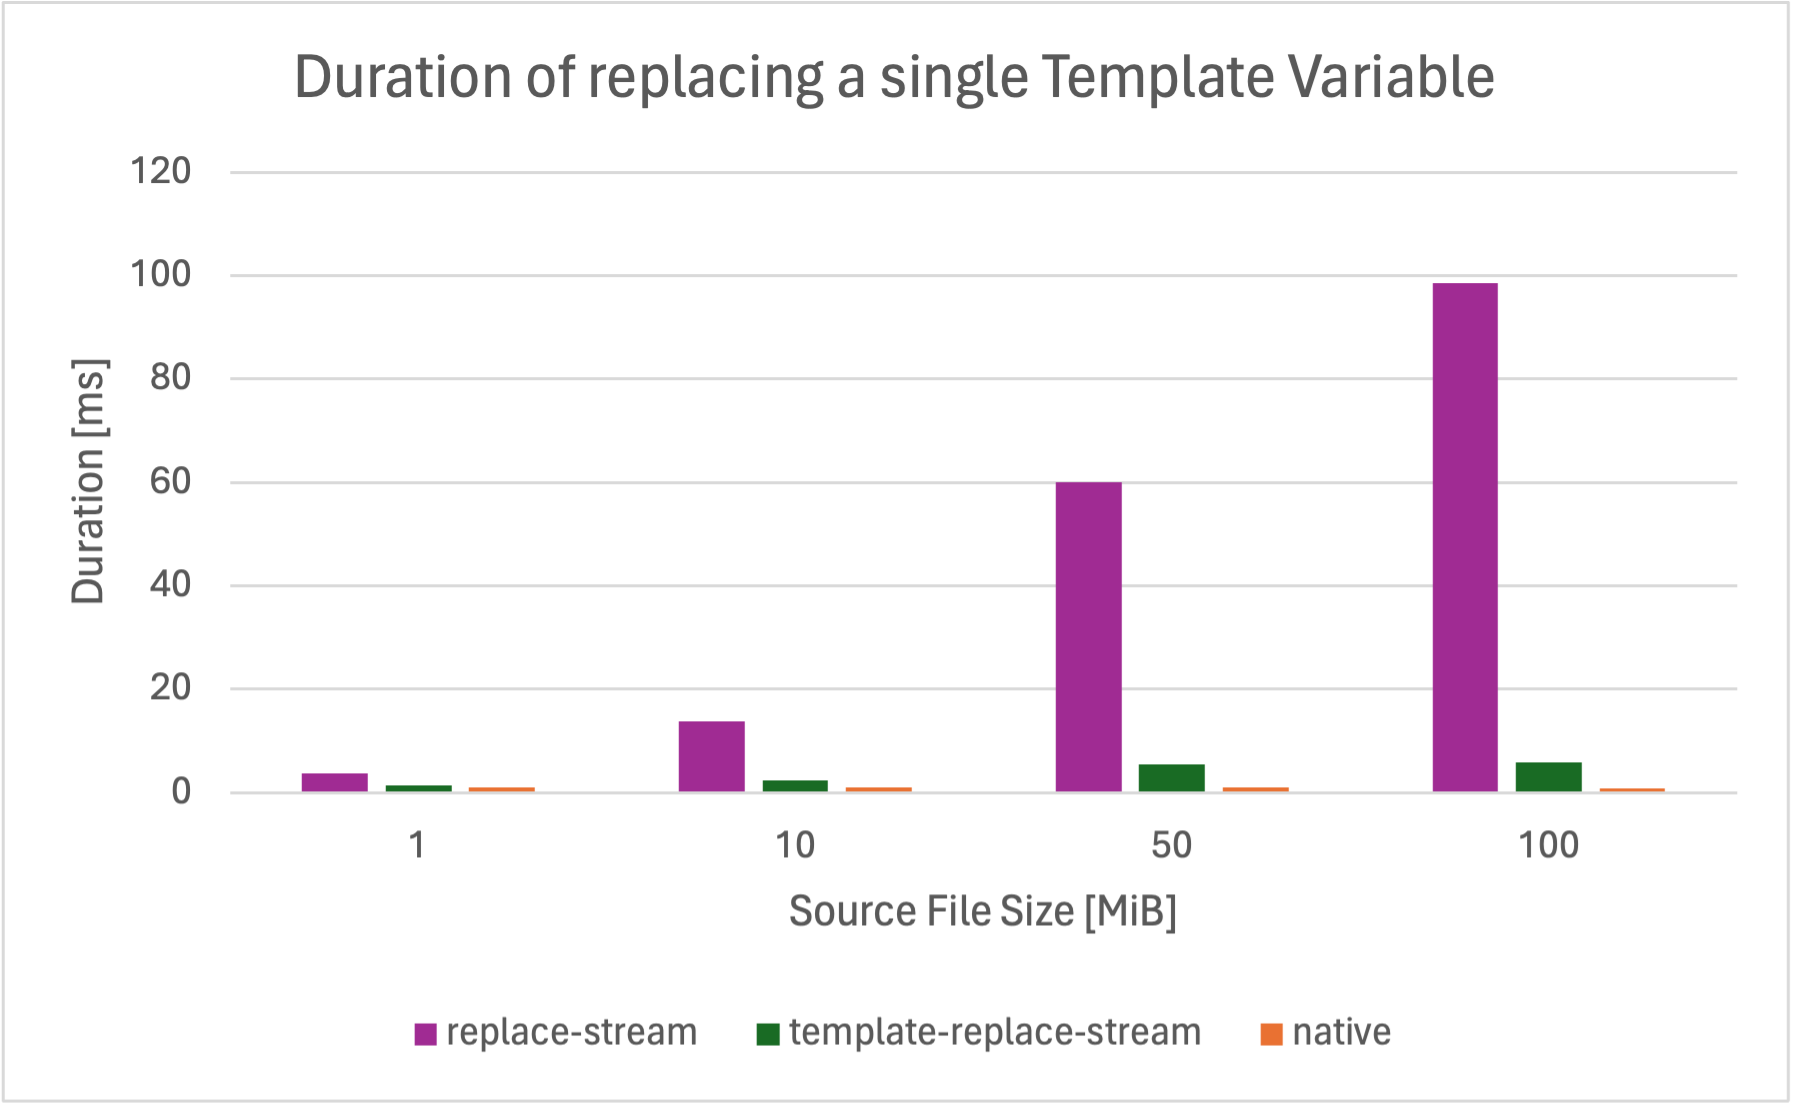
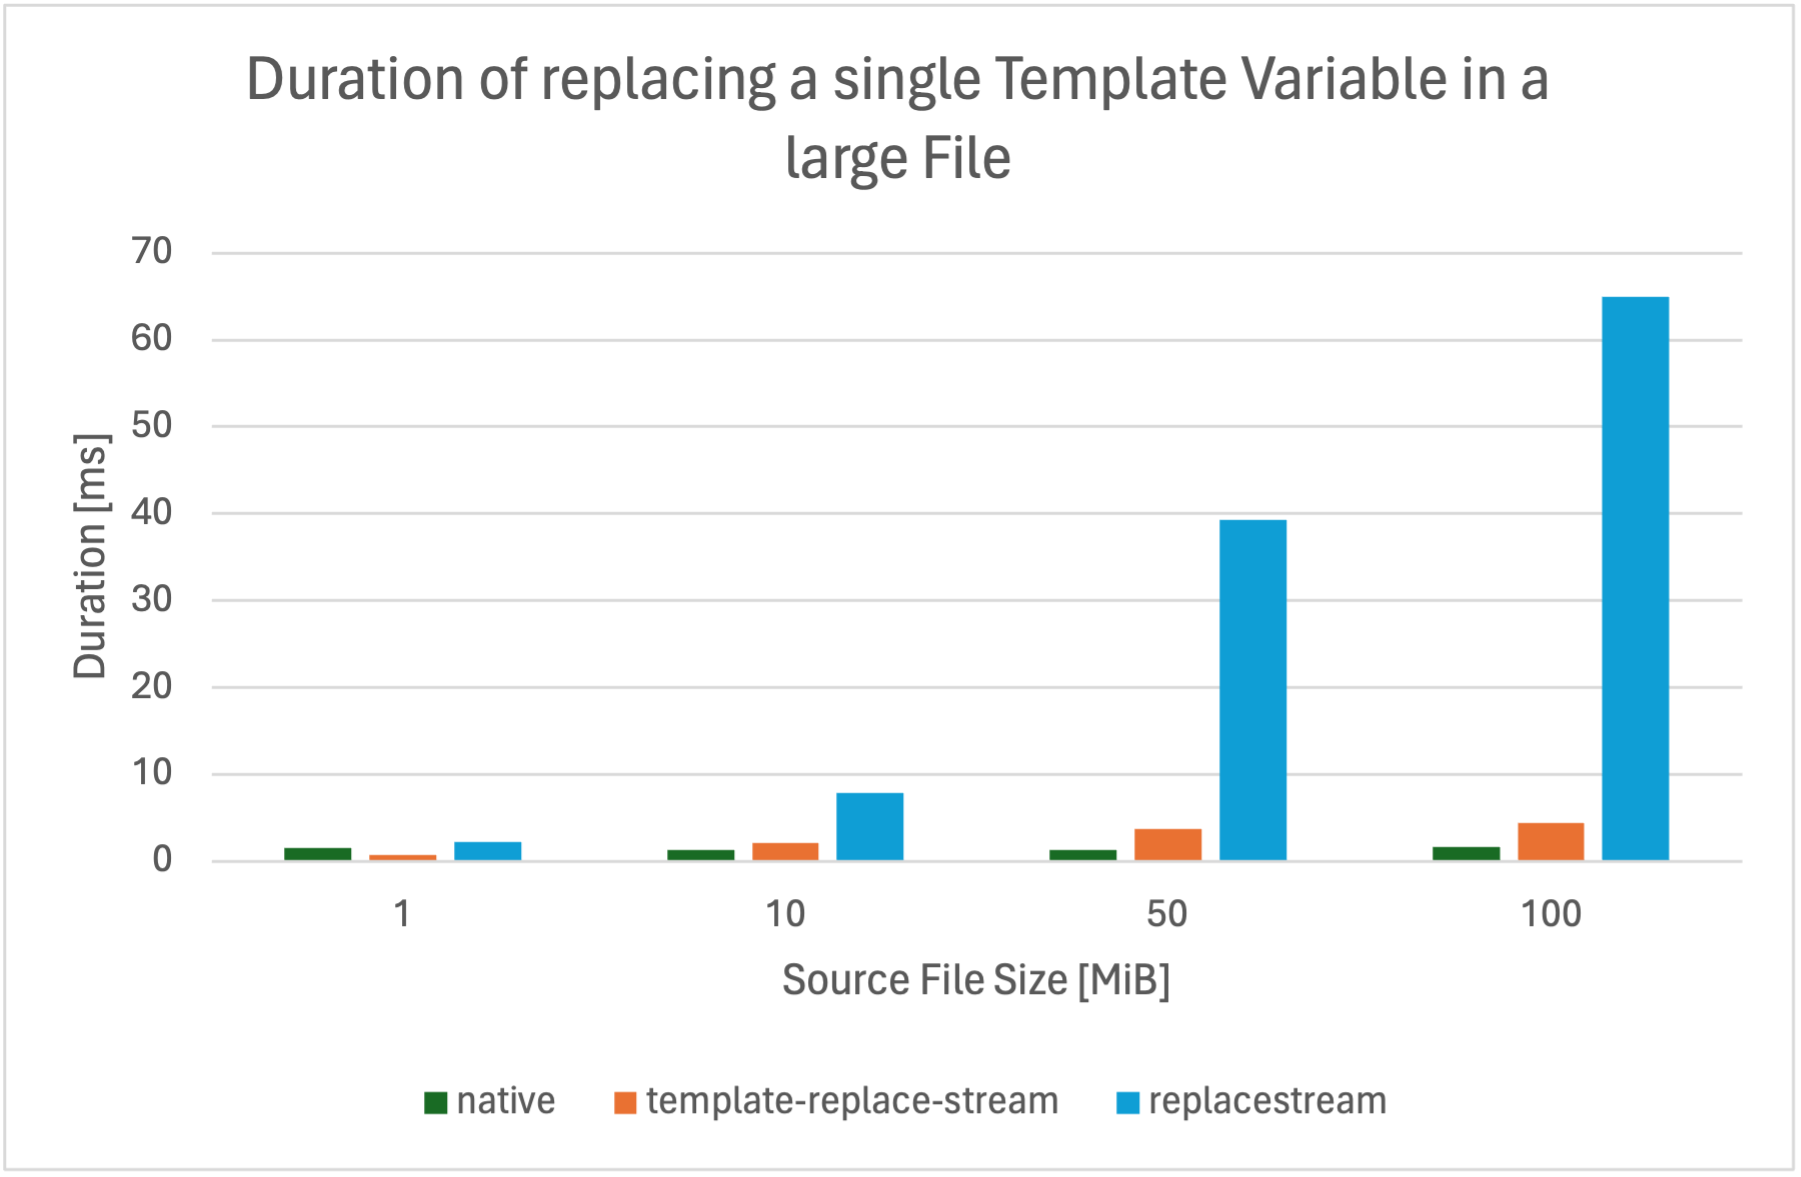
update readme

diff --git a/benchmarks/index.ts b/benchmarks/index.ts
@@ -109,14 +109,15 @@ async function benchmark() {
   await forEachSizeAndFramework(async (sizeMiB, framework) => {
     // prepare source stream
     const sizeBytes = sizeMiB * BYTE_PER_MiB;
-    const sourceStream = new FixedLengthReadStream(getChunkProvider(10000, sizeBytes), sizeBytes);
+    const numReplacements = 10000;
+    const sourceStream = new FixedLengthReadStream(getChunkProvider(numReplacements, sizeBytes), sizeBytes);
 
     // run benchmark
     addResult(await runBenchmark({
       framework,
       sourceDataSize: sizeMiB,
       replacementDataSize: 0,
-      numReplacements: 1,
+      numReplacements,
       sourceStream,
     }));
   });

diff --git a/README.md b/README.md
@@ -2,7 +2,7 @@
 
 A high performance `{{ template }}` replace stream working on binary or string streams.
 
-This module is written in pure TypeScript, consists of only 275 lines of code (including type definitions) and has no other dependencies. It is flexible and allows replacing an arbitrary wide range of template variables while being extremely fast (see [Benchmarks](#benchmarks)).
+This module is written in pure TypeScript, consists of only 189 lines of code (including type definitions) and has no other dependencies. It is flexible and allows replacing an arbitrary wide range of template variables while being extremely fast (we reached over 20GiB/s, see [Benchmarks](#benchmarks)).
 
 ## Install
 
@@ -17,7 +17,7 @@ You create a `TemplateReplaceStream` by passing a source of template variables a
 ### JavaScript
 
 ```js
-const {TemplateReplaceStream} = require("template-replace-stream");
+const {TemplateReplaceStream} = require("../dist");
 const fs = require("node:fs");
 const path = require("node:path");
 
@@ -37,21 +37,7 @@ writeStream.on("finish", () => console.log("Finished writing example.txt"));
 ### TypeScript
 
 ```ts
-import {TemplateReplaceStream} from "template-replace-stream";
-import fs from "node:fs";
-import path from "node:path";
-
-// create a map of variables to replace. This will replace "{{replace-me}}" with "really fast"
-const variables = new Map([["replace-me", "really fast"]]);
-
-// create the streams
-const readStream = fs.createReadStream(path.join(__dirname, "template.txt"));
-const writeStream = fs.createWriteStream(path.join(__dirname, "example.txt"));
-const templateReplaceStream = new TemplateReplaceStream(variables);
-
-// connect the streams and put the template replace stream in the middle
-readStream.pipe(templateReplaceStream).pipe(writeStream);
-writeStream.on("finish", () => console.log("Finished writing example.txt"));
+{{ typescript-example.ts }}
 ```
 
 ### Advanced
@@ -63,47 +49,7 @@ It's also possible to pass another `Readable` as replacement value source to the
 <summary>Advanced Example Code</summary>
 
 ```ts
-import {StringSource, TemplateReplaceStream} from "template-replace-stream";
-import fs from "fs";
-import path from "path";
-import sloc from "sloc"
-
-const rootDir = path.join(__dirname, "..");
-const exampleFiles = ["javascript-example.js", "typescript-example.ts", "create-readme.ts"];
-
-const loc = sloc(fs.readFileSync(path.join(rootDir, "src", "template-replace-stream.ts"), "utf8"), "ts").total;
-
-/**
- * Opens a file stream and replaces the import paths in the examples. This is used to
- * have module imports in the README but still local imports in the examples.
- *
- * @param file The file to read.
- */
-function openExampleStream(file: string) {
-  const replaceStream = new TemplateReplaceStream(
-      new Map([
-        [`../src`, `"template-replace-stream"`],
-        [`../dist`, `"template-replace-stream"`]
-      ]),
-      {
-        startPattern: '"',
-        endPattern: '"'
-      }
-  );
-  return fs.createReadStream(path.join(__dirname, file)).pipe(replaceStream);
-}
-
-// the map of example files and their read streams and further template variables
-const templateMap = new Map<string, StringSource>(exampleFiles.map((file) => [file, openExampleStream(file)]));
-templateMap.set("loc", loc.toString());
-
-// create the streams
-const readmeReadStream = fs.createReadStream(path.join(rootDir, "README.template.md"));
-const readmeWriteStream = fs.createWriteStream(path.join(rootDir, "README.md"));
-
-// connect the streams and put the template replace stream in the middle
-readmeReadStream.pipe(new TemplateReplaceStream(templateMap)).pipe(readmeWriteStream);
-readmeWriteStream.on("finish", () => console.log("Finished writing README.md"));
+{{ create-readme.ts }}
 ```
 </details>
 
@@ -138,22 +84,39 @@ type TemplateReplaceStreamOptions = {
 
 The benchmarks were run on my MacBook Pro with an Apple M1 Pro Chip. The data source were virtual files generated from- and to memory to omit any bottleneck due to the file system. The "native" data refers to reading a files from disk without doing anything else with it (native `fs.Readable` streams). So they are the absolute highest possible.
 
+## Replacing a single Template Variable in a large File
+
 ![Throughput vs. File Size when replacing a single Variable](benchmarks/plots/throughput-vs-data-size-with-one-replacement.png)
 
-Like the raw file system stream, a `TemplateReplaceStream` becomes faster with an increasing source file size. It is more than 20x faster than the `replace-stream` when processing large files. The throughput of the `TemplateReplaceStream` was almost 20GiB/s when replacing a single variable in a 100MiB file.
+Like the raw file system stream, a `TemplateReplaceStream` becomes faster with an increasing source file size. It is more than 20x faster than the `replace-stream` when processing large files. The throughput of the `TemplateReplaceStream` was more than 20GiB/s when replacing a single variable in a 100MiB file.
 
 ![Duration vs File Size when replacing a single Variable](benchmarks/plots/size-vs-duration-with-one-replacement.png)
 
 Replacing a single variable in a 100MiB file takes only 6ms using a `TemplateReplaceStream`. Reading the whole file from the disk alone takes already more than 1ms. The `stream-replace-string` packages was omitted im this graph, as it took over 16s to process the 100MiB file.
 
-We will provide more benchmarks with the next release, especially with replacing a lot of variables.
+## Replacing 10 thousand Template Variables in a large File
+
+![Throughput vs. File Size when replacing a 10K Variables](benchmarks/plots/throughput-vs-data-size-with-10k-replacement.png)
+
+You can see that the performance declines when working with more replacements. Note that one reason is the virtually generated workload (see "native" in the graph). `TemplateReplaceStream` still reaches 10GiB/s.
+
+![Duration vs File Size when replacing a 10K Variables](benchmarks/plots/size-vs-duration-with-10k-replacement.png)
+
+To replace ten thousand template variables in a 100MiB file, the `TemplateReplaceStream` takes around 10ms. Since this duration is similar for smaller file sizes, we can see that it does not perform too well in the 1MiB file. We will keep optimizing for that.
 
 ## Changelog
 
-### 2.0
+### 2.1.0
+- Further improve performance by using `Buffer.indexOf()` to find the end of a template variable, too
+- Add more benchmarks
+
+### 2.0.0
 - Drastically improve performance (by ~10x) by using `Buffer.indexOf()` instead of iterating over the buffer myself
 - Rename option `throwOnMissingVariable` to `throwOnUnmatchedTemplate`
 - Add benchmarks
 
-## 1.1
+## 1.0.1
 - Update README
+
+## 1.0.0
+- Initial Release

diff --git a/README.template.md b/README.template.md
@@ -2,7 +2,7 @@
 
 A high performance `{{ template }}` replace stream working on binary or string streams.
 
-This module is written in pure TypeScript, consists of only {{loc}} lines of code (including type definitions) and has no other dependencies. It is flexible and allows replacing an arbitrary wide range of template variables while being extremely fast (see [Benchmarks](#benchmarks)).
+This module is written in pure TypeScript, consists of only {{loc}} lines of code (including type definitions) and has no other dependencies. It is flexible and allows replacing an arbitrary wide range of template variables while being extremely fast (we reached over 20GiB/s, see [Benchmarks](#benchmarks)).
 
 ## Install
 
@@ -70,22 +70,39 @@ type TemplateReplaceStreamOptions = {
 
 The benchmarks were run on my MacBook Pro with an Apple M1 Pro Chip. The data source were virtual files generated from- and to memory to omit any bottleneck due to the file system. The "native" data refers to reading a files from disk without doing anything else with it (native `fs.Readable` streams). So they are the absolute highest possible.
 
+## Replacing a single Template Variable in a large File
+
 ![Throughput vs. File Size when replacing a single Variable](benchmarks/plots/throughput-vs-data-size-with-one-replacement.png)
 
-Like the raw file system stream, a `TemplateReplaceStream` becomes faster with an increasing source file size. It is more than 20x faster than the `replace-stream` when processing large files. The throughput of the `TemplateReplaceStream` was almost 20GiB/s when replacing a single variable in a 100MiB file.
+Like the raw file system stream, a `TemplateReplaceStream` becomes faster with an increasing source file size. It is more than 20x faster than the `replace-stream` when processing large files. The throughput of the `TemplateReplaceStream` was more than 20GiB/s when replacing a single variable in a 100MiB file.
 
 ![Duration vs File Size when replacing a single Variable](benchmarks/plots/size-vs-duration-with-one-replacement.png)
 
 Replacing a single variable in a 100MiB file takes only 6ms using a `TemplateReplaceStream`. Reading the whole file from the disk alone takes already more than 1ms. The `stream-replace-string` packages was omitted im this graph, as it took over 16s to process the 100MiB file.
 
-We will provide more benchmarks with the next release, especially with replacing a lot of variables.
+## Replacing 10 thousand Template Variables in a large File
+
+![Throughput vs. File Size when replacing a 10K Variables](benchmarks/plots/throughput-vs-data-size-with-10k-replacement.png)
+
+You can see that the performance declines when working with more replacements. Note that one reason is the virtually generated workload (see "native" in the graph). `TemplateReplaceStream` still reaches 10GiB/s.
+
+![Duration vs File Size when replacing a 10K Variables](benchmarks/plots/size-vs-duration-with-10k-replacement.png)
+
+To replace ten thousand template variables in a 100MiB file, the `TemplateReplaceStream` takes around 10ms. Since this duration is similar for smaller file sizes, we can see that it does not perform too well in the 1MiB file. We will keep optimizing for that.
 
 ## Changelog
 
-### 2.0
+### 2.1.0
+- Further improve performance by using `Buffer.indexOf()` to find the end of a template variable, too
+- Add more benchmarks
+
+### 2.0.0
 - Drastically improve performance (by ~10x) by using `Buffer.indexOf()` instead of iterating over the buffer myself
 - Rename option `throwOnMissingVariable` to `throwOnUnmatchedTemplate`
 - Add benchmarks
 
-## 1.1
+## 1.0.1
 - Update README
+
+## 1.0.0
+- Initial Release
